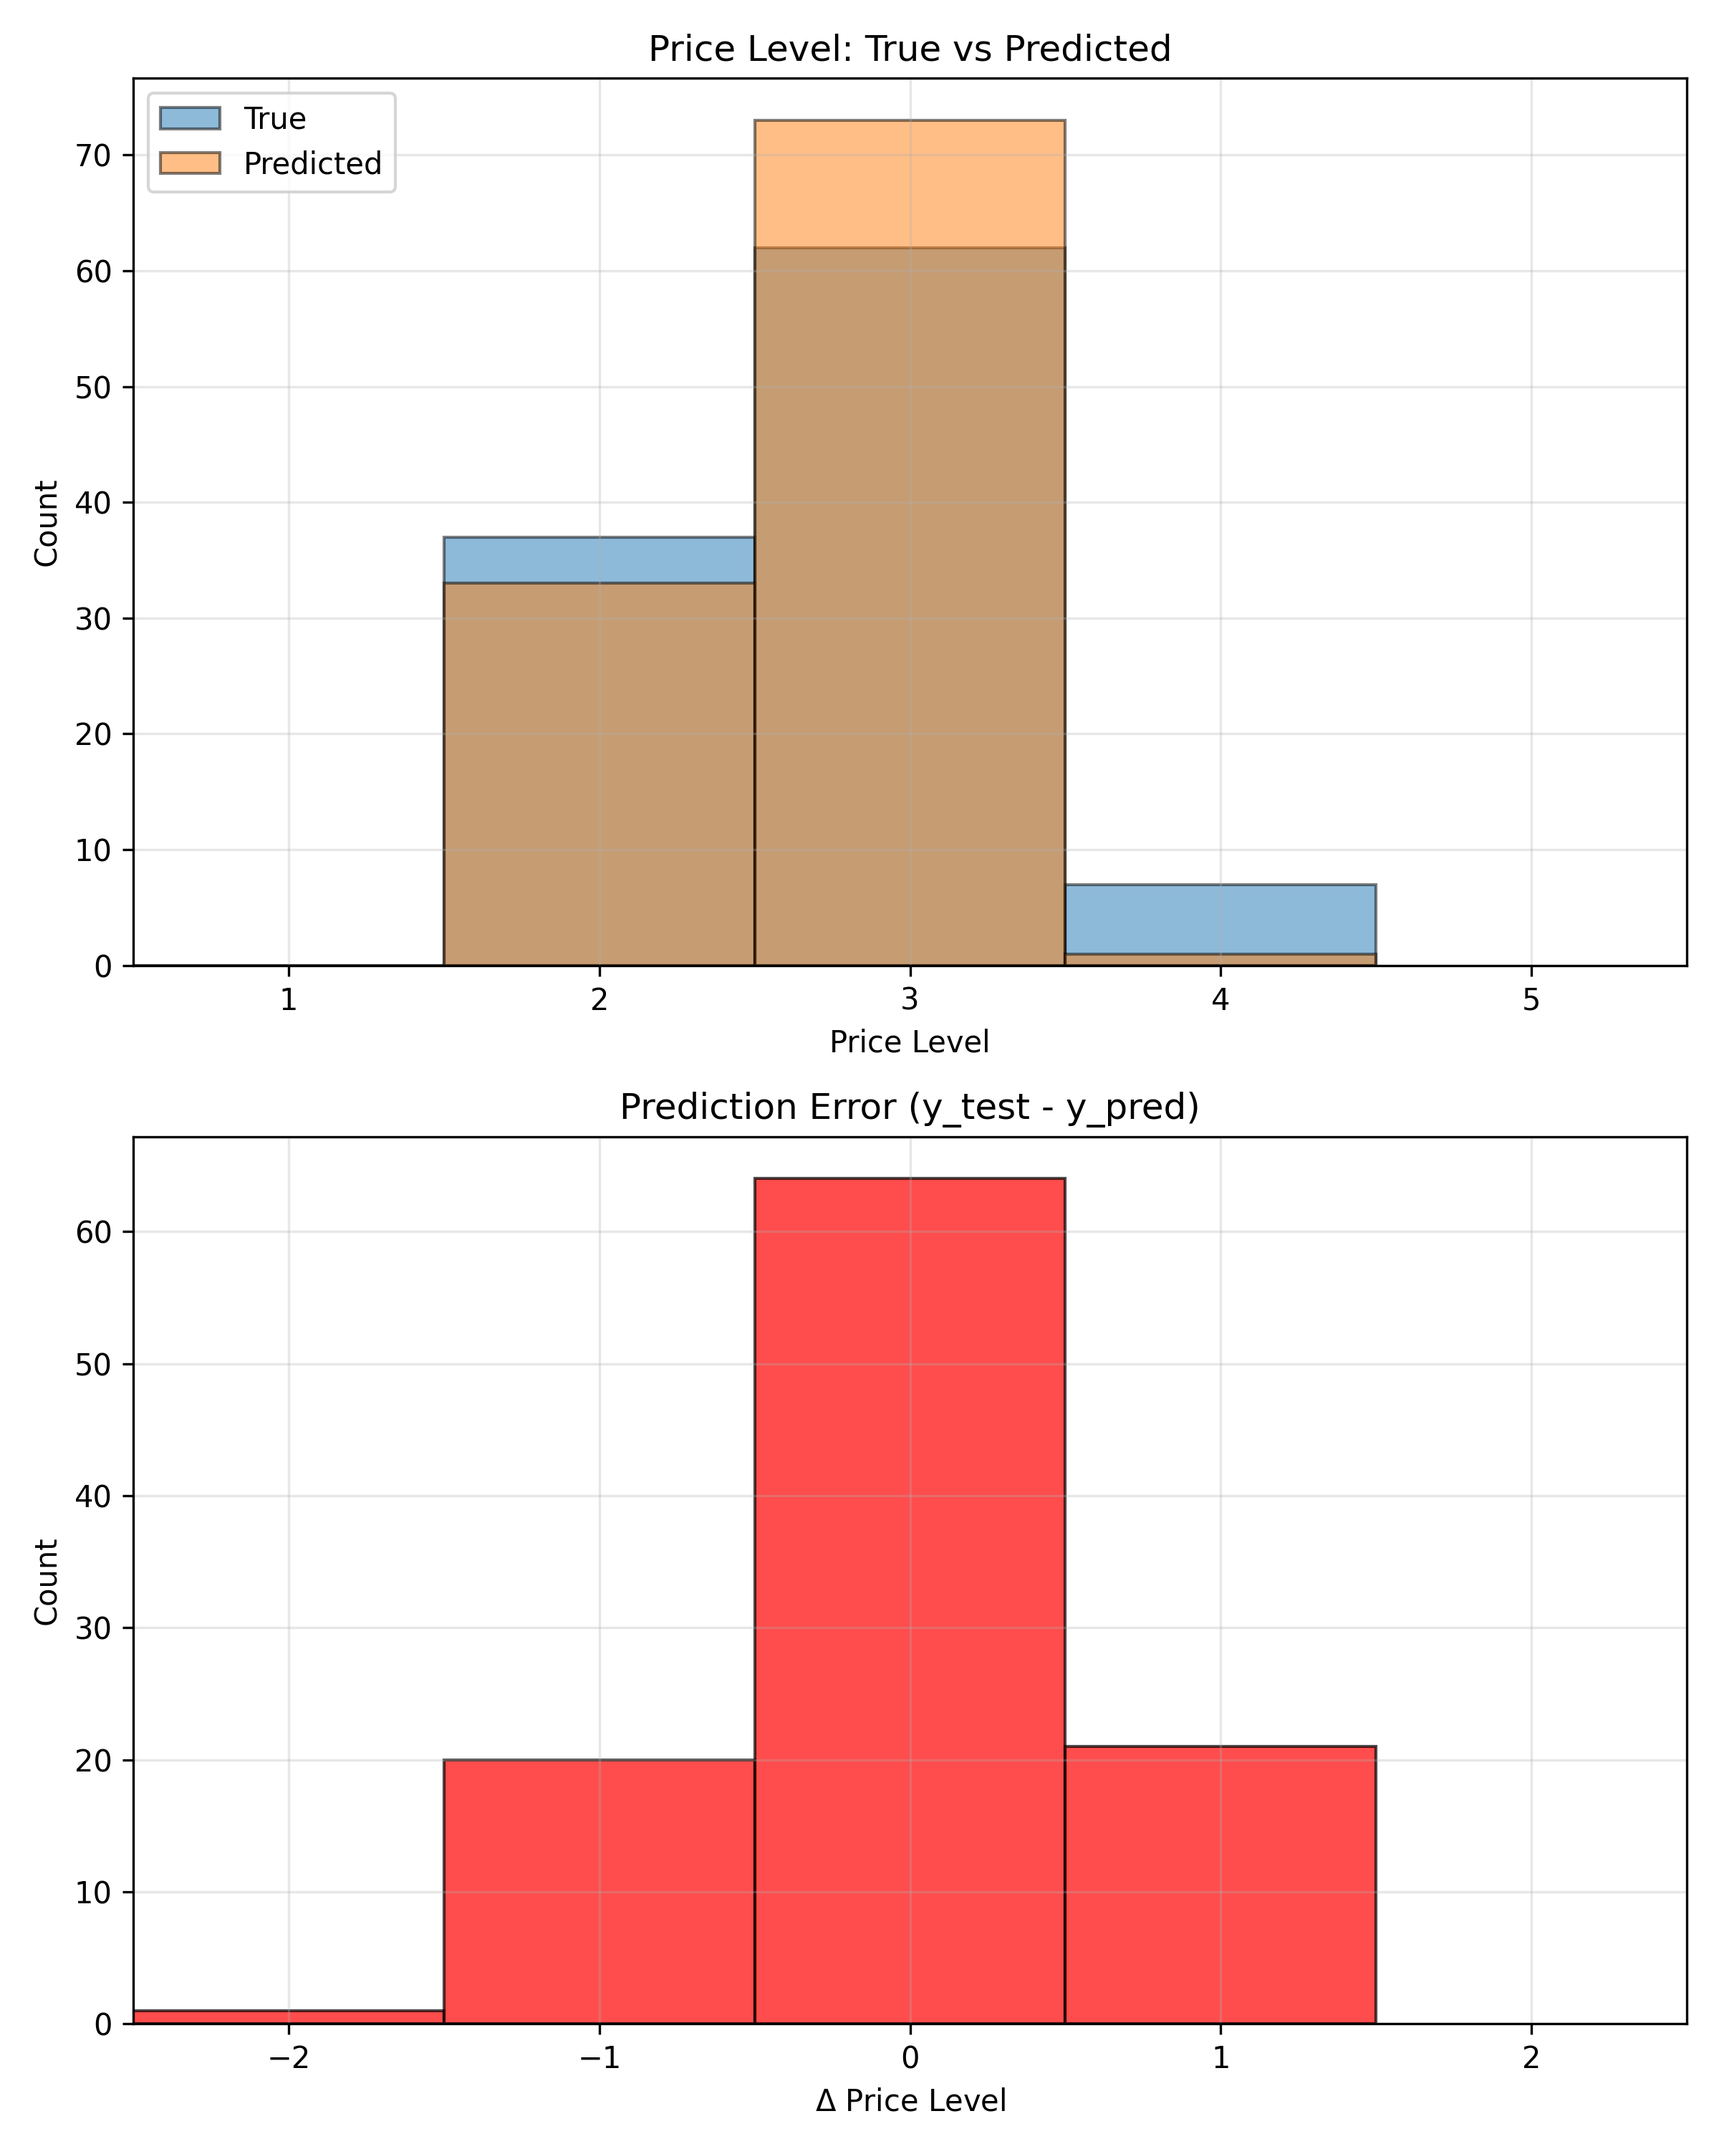
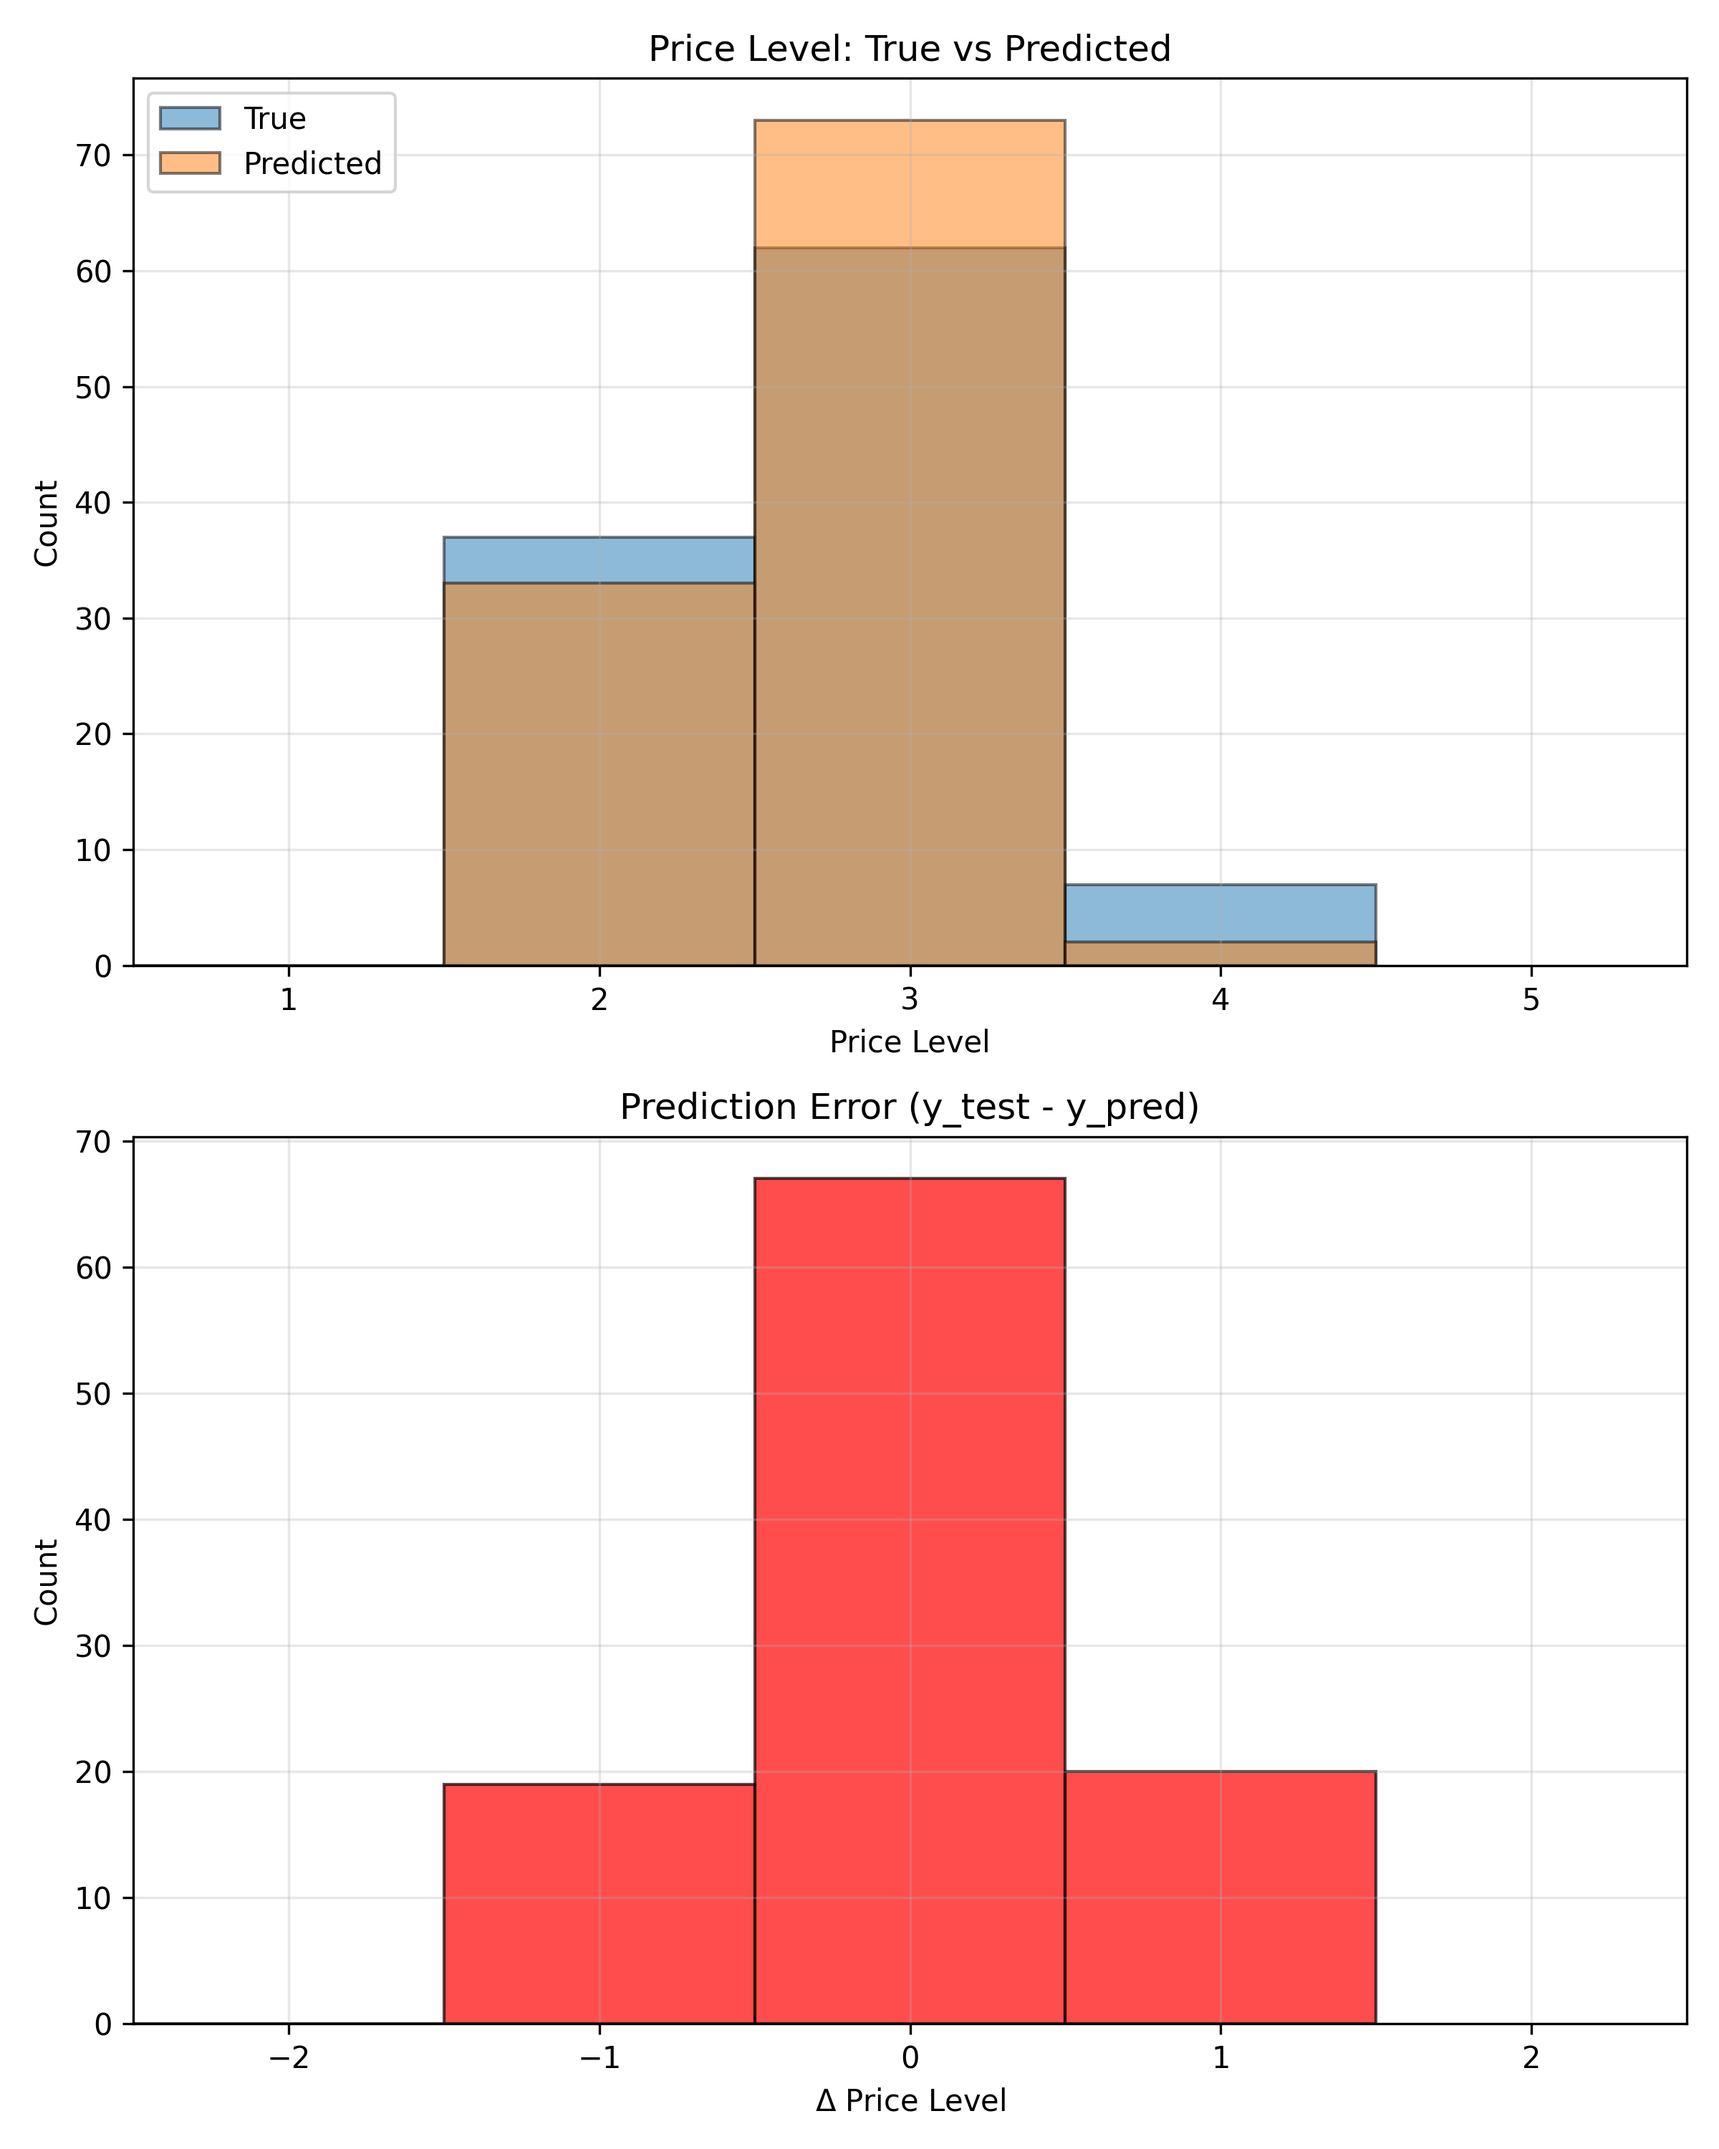
Added feature engineering and updated README

diff --git a/train_model.py b/train_model.py
@@ -22,11 +22,21 @@ df = pd.DataFrame([{
     "longitude": item["location"]["longitude"],
     "price_level": item["price_level"],
     "primary_type": item["primary_type"],
+    "types": ",".join(item["types"]),
     "rating": item["rating"],
     "user_rating_count": item["user_rating_count"],
 } for item in data if "price_level" in item and "rating" in item and "user_rating_count" in item])
 
-X = df[["latitude", "longitude", "rating", "user_rating_count"]]
+# Engineer features fine_dining and fast_food
+df['fine_dining'] = [True if 'fine_dining_restaurant' in t.split(',') else False for t in df['types']]
+df['fast_food'] = [True if 'fast_food_restaurant' in t.split(',') else False for t in df['types']]
+
+# Encode and add a feature for the primary type
+primary_type_le = LabelEncoder()
+primary_type_le.fit(np.unique(df['primary_type']))
+df['primary_type_enc'] = primary_type_le.transform(df['primary_type'])
+
+X = df[["latitude", "longitude", "rating", "user_rating_count", "primary_type_enc", "fine_dining", "fast_food"]]
 y = df["price_level"]
 
 # Example coordinates

diff --git a/README.md b/README.md
@@ -1,107 +1,124 @@
 # PlacesML: Restaurant Price Level Prediction with Machine Learning
 
-This project predicts a restaurant’s **price level** using location and popularity signals from the **Google Places API**. The final model is a **Random Forest classifier** that achieves approximately **61% accuracy** on a held-out test set.
+**PlacesML** predicts a restaurant’s **price level** using location, popularity, and category signals from the **Google Places API**. The project demonstrates end-to-end machine learning from feature engineering to model evaluation. The final model is a **Random Forest classifier** achieving approximately **62% accuracy** on a held-out test set.
 
 ---
 
 ## Project Goal
 
-Estimate a restaurant’s price level (`0–5`, as defined by Google Places) using minimal, widely available features. This is framed as a **multiclass classification** problem.
+Estimate a restaurant’s price level (`0–5`, as defined by Google Places) using widely available features. This is a **multiclass classification** problem, framed to help understand pricing patterns in a city or region.
 
 ---
 
 ## Data Collection
 
-Restaurant data is collected using the **Google Places Nearby Search API** by scanning a geographic grid and querying nearby restaurants. Results are deduplicated by Place ID.
-
-Only restaurants with complete metadata are retained.
+Restaurant data is collected using the **Google Places Nearby Search API** by scanning geographic grids and querying nearby restaurants. Results are deduplicated by Place ID. Only restaurants with complete metadata are retained.
 
 **Fields used:**
+- Latitude & Longitude
+- Rating
+- User rating count
+- Price level (target)
+- Primary type
+- Types (used to engineer categorical features)
+
+---
+
+## Feature Engineering
+
+Several new features were added to improve prediction:
+
+- **Primary type encoding (`primary_type_enc`)** – Label-encoded category of the restaurant.  
+- **Fine dining flag (`fine_dining`)** – `True` if the restaurant is classified as fine dining.  
+- **Fast food flag (`fast_food`)** – `True` if the restaurant is classified as fast food.  
+
+These features complement location and popularity metrics, providing better context for price prediction.
+
+**Final input features:**
 - Latitude
 - Longitude
 - Rating
 - User rating count
-- Price level (target)
+- Primary type encoding
+- Fine dining flag
+- Fast food flag
 
-Data is stored as JSON and converted into a Pandas DataFrame for modeling.
-
----
-
-## Features and Target
-
-**Input Features**
-- `latitude`
-- `longitude`
-- `rating`
-- `user_rating_count`
-
-**Target Variable**
-- `price_level` (categorical, integer)
+**Target Variable:** `price_level` (categorical integer 0–5)
 
 ---
 
 ## Model
 
-A **RandomForestClassifier** from scikit-learn is used.
+A **RandomForestClassifier** is used with the following configuration:
 
-**Configuration**
-- Trees: `100`
-- Train / Test split: `80% / 20%`
-- Random state: `42`
+- Number of trees: 200  
+- Class balancing: enabled (`balanced`)  
+- Train/test split: 80% / 20%  
+- Cross-validation: Stratified 5-Fold  
 
-```python
-from sklearn.ensemble import RandomForestClassifier
+The model is trained on all engineered features and evaluated using cross-validation to ensure stability and mitigate class imbalance.
 
-model = RandomForestClassifier(
-    n_estimators=100,
-    random_state=42
-)
-```
+---
 
 ## Results
 
-**Accuracy:** 61 percent
+**Train/Test split:** 431 / 108 samples  
 
-The model performs best on mid-range price levels and struggles more on extreme price categories. This behavior is primarily due to class imbalance and limited feature expressiveness.
+**Cross-Validation Metrics:**
+- F1 weighted: 0.59  
+- Accuracy: 0.64  
+
+**Test Set Metrics:**
+- F1 weighted: 0.60  
+- Accuracy: 0.62  
+
+The model performs best on mid-range price levels (`2–3`) and struggles on rare extremes (`4–5`) due to class imbalance and limited representation in the dataset.
+
+---
 
 ## Visualizations
 
 The project includes:
 
-- An interactive [**Folium map**](map_50_by_20_train.html) showing restaurant locations
-- [Histograms](price_level_prediction_random_forest_50_by_20.png) comparing **true price levels**, **predicted price levels**, and **prediction error**
+- **Interactive Folium map** showing restaurant locations colored by price level.  
+- **Histograms** comparing true price levels, predicted price levels, and prediction errors.  
 
+These visualizations provide insight into geographic patterns and model performance.
 
-These visualizations are used for qualitative model evaluation.
+---
 
-## Example Prediction
+## Example Usage
 
-```python
-new_location = [[32.71, -117.17, 4.2, 350]]
-predicted_price_level = model.predict(new_location)
-print(predicted_price_level[0])
-```
+The model can predict a restaurant’s price level from location, rating, user count, and category indicators.
+
+---
 
 ## Limitations
 
-- Price level labels are noisy and frequently missing
-- Geographic location alone is a weak predictor
-- Class imbalance reduces performance on rare price levels
+- Price level labels are noisy and sometimes missing  
+- Geographic location and popularity metrics alone are weak predictors  
+- Rare price levels (`4–5`) are difficult to predict due to class imbalance  
+
+---
 
 ## Future Improvements
 
-- Add neighborhood-level context such as restaurant density
-- Improve encoding of restaurant categories
+- Incorporate neighborhood-level context such as restaurant density or median income  
+- Include more nuanced category information (e.g., cuisine type, chain vs. independent)  
+- Explore advanced machine learning models such as XGBoost or neural networks  
+- Apply oversampling or class-balancing techniques for rare price levels  
+
+---
 
 ## Tech Stack
 
-- Python
-- Google Places API
-- Pandas
-- NumPy
-- scikit-learn
-- Folium
-- Matplotlib
+- Python  
+- Google Places API  
+- Pandas & NumPy  
+- scikit-learn  
+- Matplotlib & Folium  
+
+---
 
 ## Disclaimer
 
